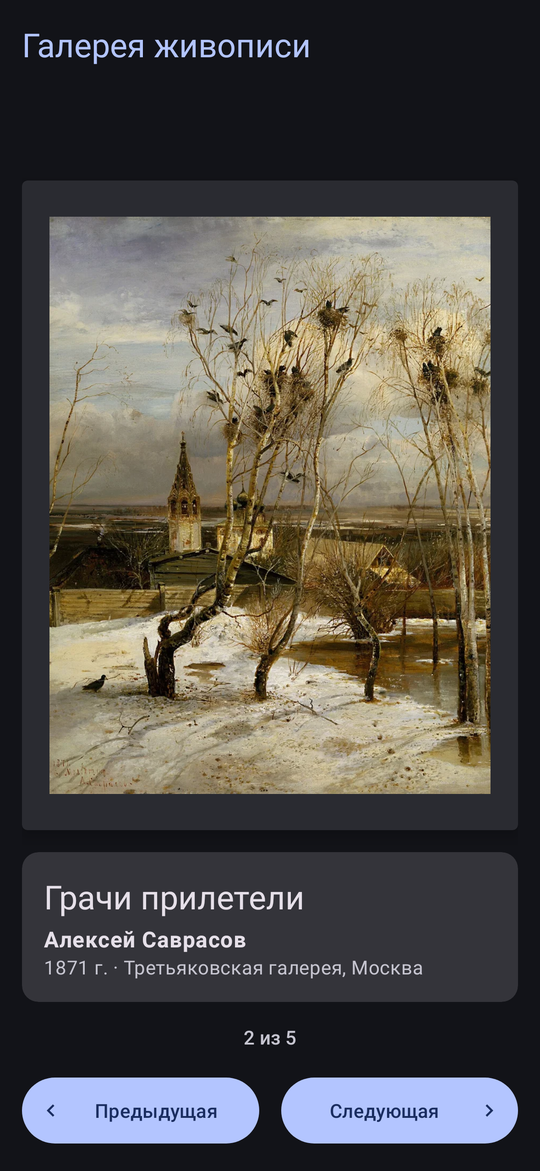
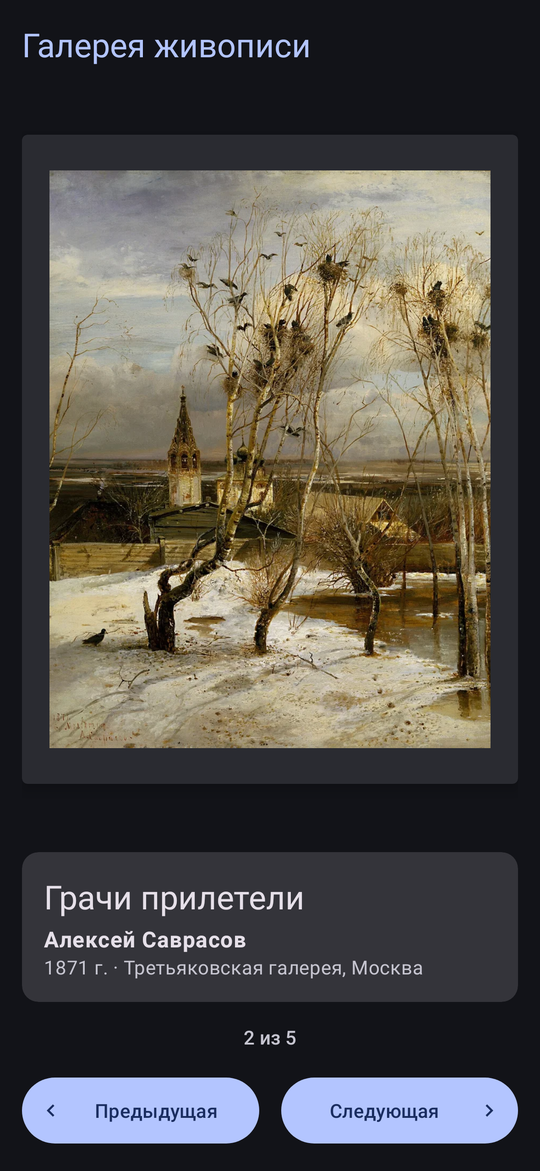
docs: снимки экрана после правки разметки
Снимки пересняты: картина по центру экрана. В README добавлено про прокрутку подписи в альбомной ориентации.

diff --git a/README.md b/README.md
@@ -8,7 +8,7 @@
 - Коллекция задана данными: `data class Artwork` и список `ArtworkDataSource.artworks` (`List<Artwork>`) с идентификаторами ресурсов, строки — только в `strings.xml`.
 - На первой картине кнопка «Предыдущая» неактивна, на последней — «Следующая».
 - Номер текущей картины сохраняется в `onSaveInstanceState()` по ключу-константе и читается из `Bundle` в `onCreate()`. После поворота экрана остаются та же картина, подписи и состояние кнопок.
-- Отдельная разметка для альбомной ориентации (`layout-land`): картина слева, описание и кнопки справа. Для планшетов увеличены отступы и шрифты (`values-sw600dp`).
+- Отдельная разметка для альбомной ориентации (`layout-land`): картина слева, описание и кнопки справа. На низком экране и при крупном шрифте подпись прокручивается, а кнопки остаются на экране. Для планшетов увеличены отступы и шрифты (`values-sw600dp`).
 - Интерфейс и описания картин на русском и английском (`values`, `values-en`, `values-ru`).
 - Доступность: у картины содержательный `contentDescription`, он меняется вместе с картиной; у кнопок понятные описания для TalkBack.
 
